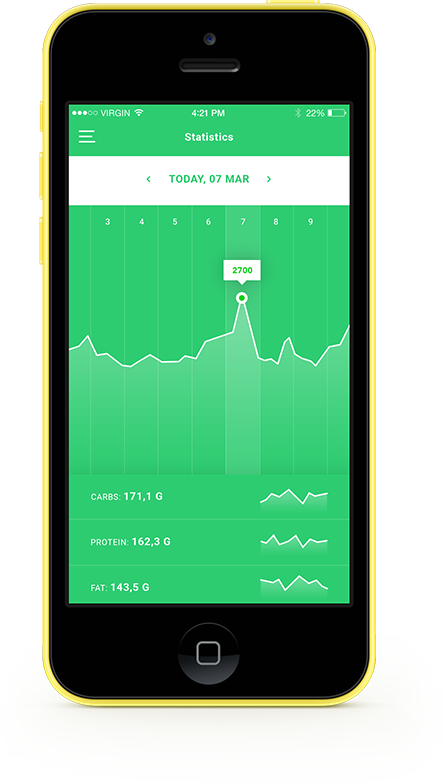
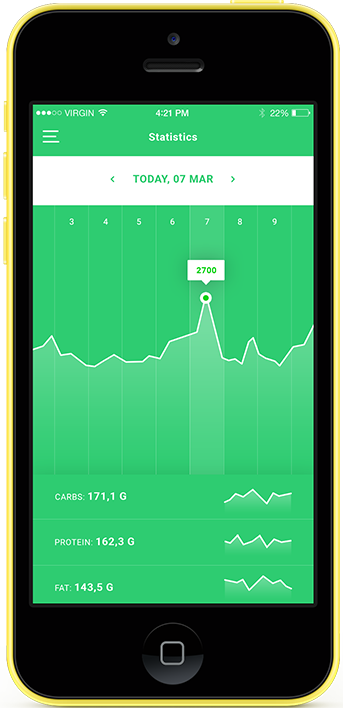
block home complete

diff --git a/css/styles.css b/css/styles.css
@@ -14,22 +14,25 @@ ul a:nth-child(6) {
 }
 li {list-style: none;}
 .content {
-	max-width: 1200px;
+	max-width: 1170px;
 	padding: 0 15px;
 	margin: 0 auto;
 }
-.home {background-color: #2ecc71;}
-.main-header {padding: 30px 0 0 0;}
-.logo{
+.home {
+	background-color: #2ecc71;
+	color: #f4f4f4;
+}
+.main-header {padding: 30px 0 75px 0;}
+.logo {
 	font: italic bold 39px/24px "Roboto";
 	color: #f4f4f4;
 	vertical-align: middle;
 	display: inline-block;
-	margin-right: 330px;
+	margin-right: 358px;
 }
 .main-menu {
 	display: inline-block;
-	font: 400 18px/30px  "Roboto";
+	font: 18px/30px  "Roboto";
 }
 .main-menu .button {
 	color: #2ecc71;
@@ -41,4 +44,28 @@ li {list-style: none;}
 	font-weight: bold;
 	line-height: 42px;
 	text-align: center;
+}
+.home .head-block {
+	font: 300 64px/60px "Roboto";
+	margin: 60px 0 20px;
+}
+.home .head-block span {
+	font-weight: bold;
+}
+.home .about-block {
+	font: 300 18px/32px "Roboto";
+}
+.helps-you-eat-better {
+	display: inline-block;
+	width: 53.65%;
+	padding-top: 125px;
+}
+.home-image {
+	float: right;
+
+	margin-left: 136px;
+}
+.button-app {
+	padding: 55px 0 175px;
+
 }

diff --git a/index.html b/index.html
@@ -28,10 +28,20 @@
 						</ul>
 					</nav>
 				</header>
-
+				<div class="helps-you-eat-better">
+					<img src="images/App-Icon.png" alt="App-Icon" class="app-icon">
+					<h1 class="head-block">Helps you eat <span>better.</span></h1>
+					<p class="about-block">FitApp is a free calorie counting and diet app PSD template which<br> includes high
+																 quality 9 screens. This template can be very helpful if you're planning to build
+																 food tracking application.</p>
+					<div class="button-app">
+						<a href=""><img src="images/Appstore.png" alt="AppStore" style="margin-right: 25px"></a>
+						<a href=""><img src="images/Google%20Play.png" alt="Google-Play"></a>
+					</div>
+				</div>
+				<img class="home-image" src="images/home-iPhone-5C.png" alt="iPhone-5C">
 			</div>
 		</div>
 	</div>
-
 </body>
 </html>
